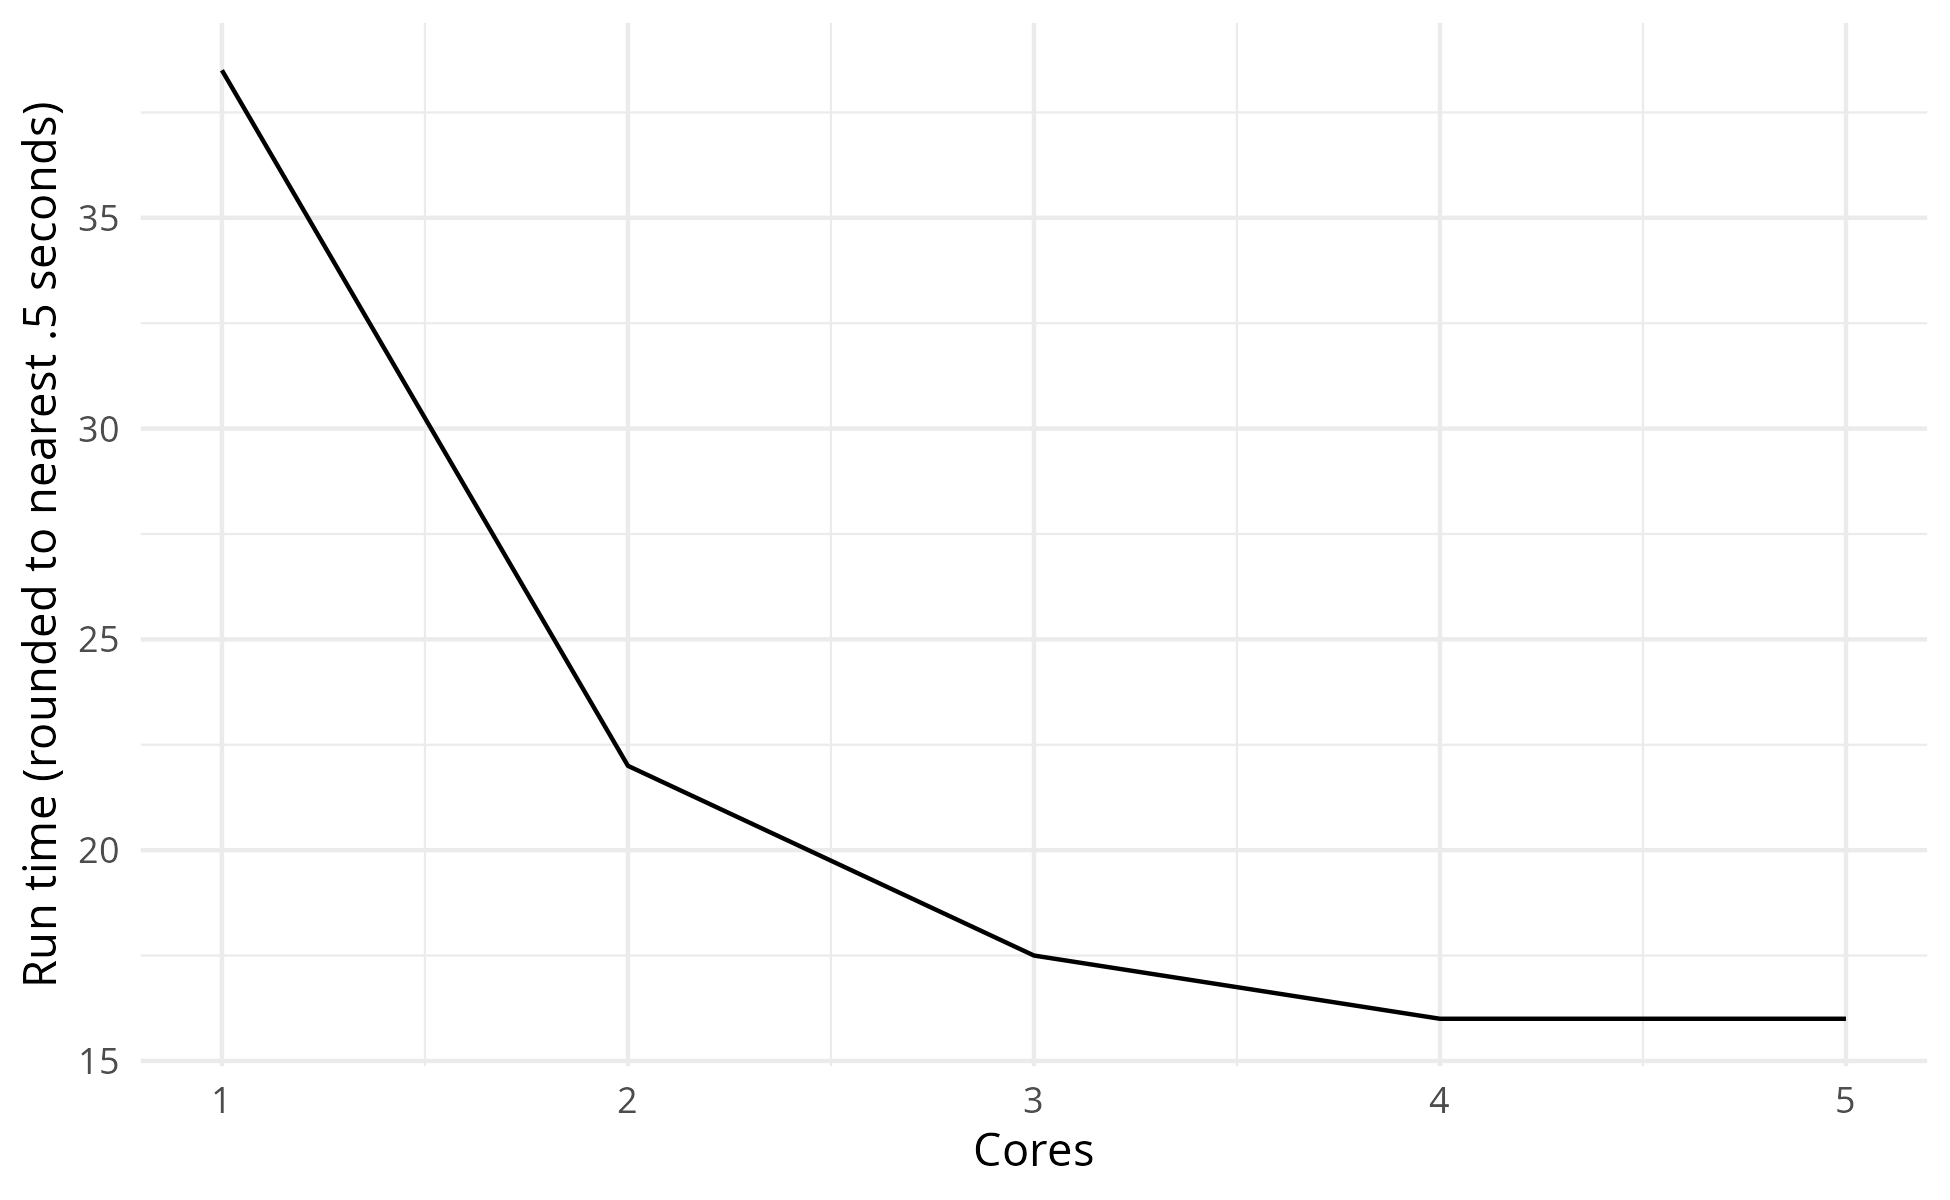
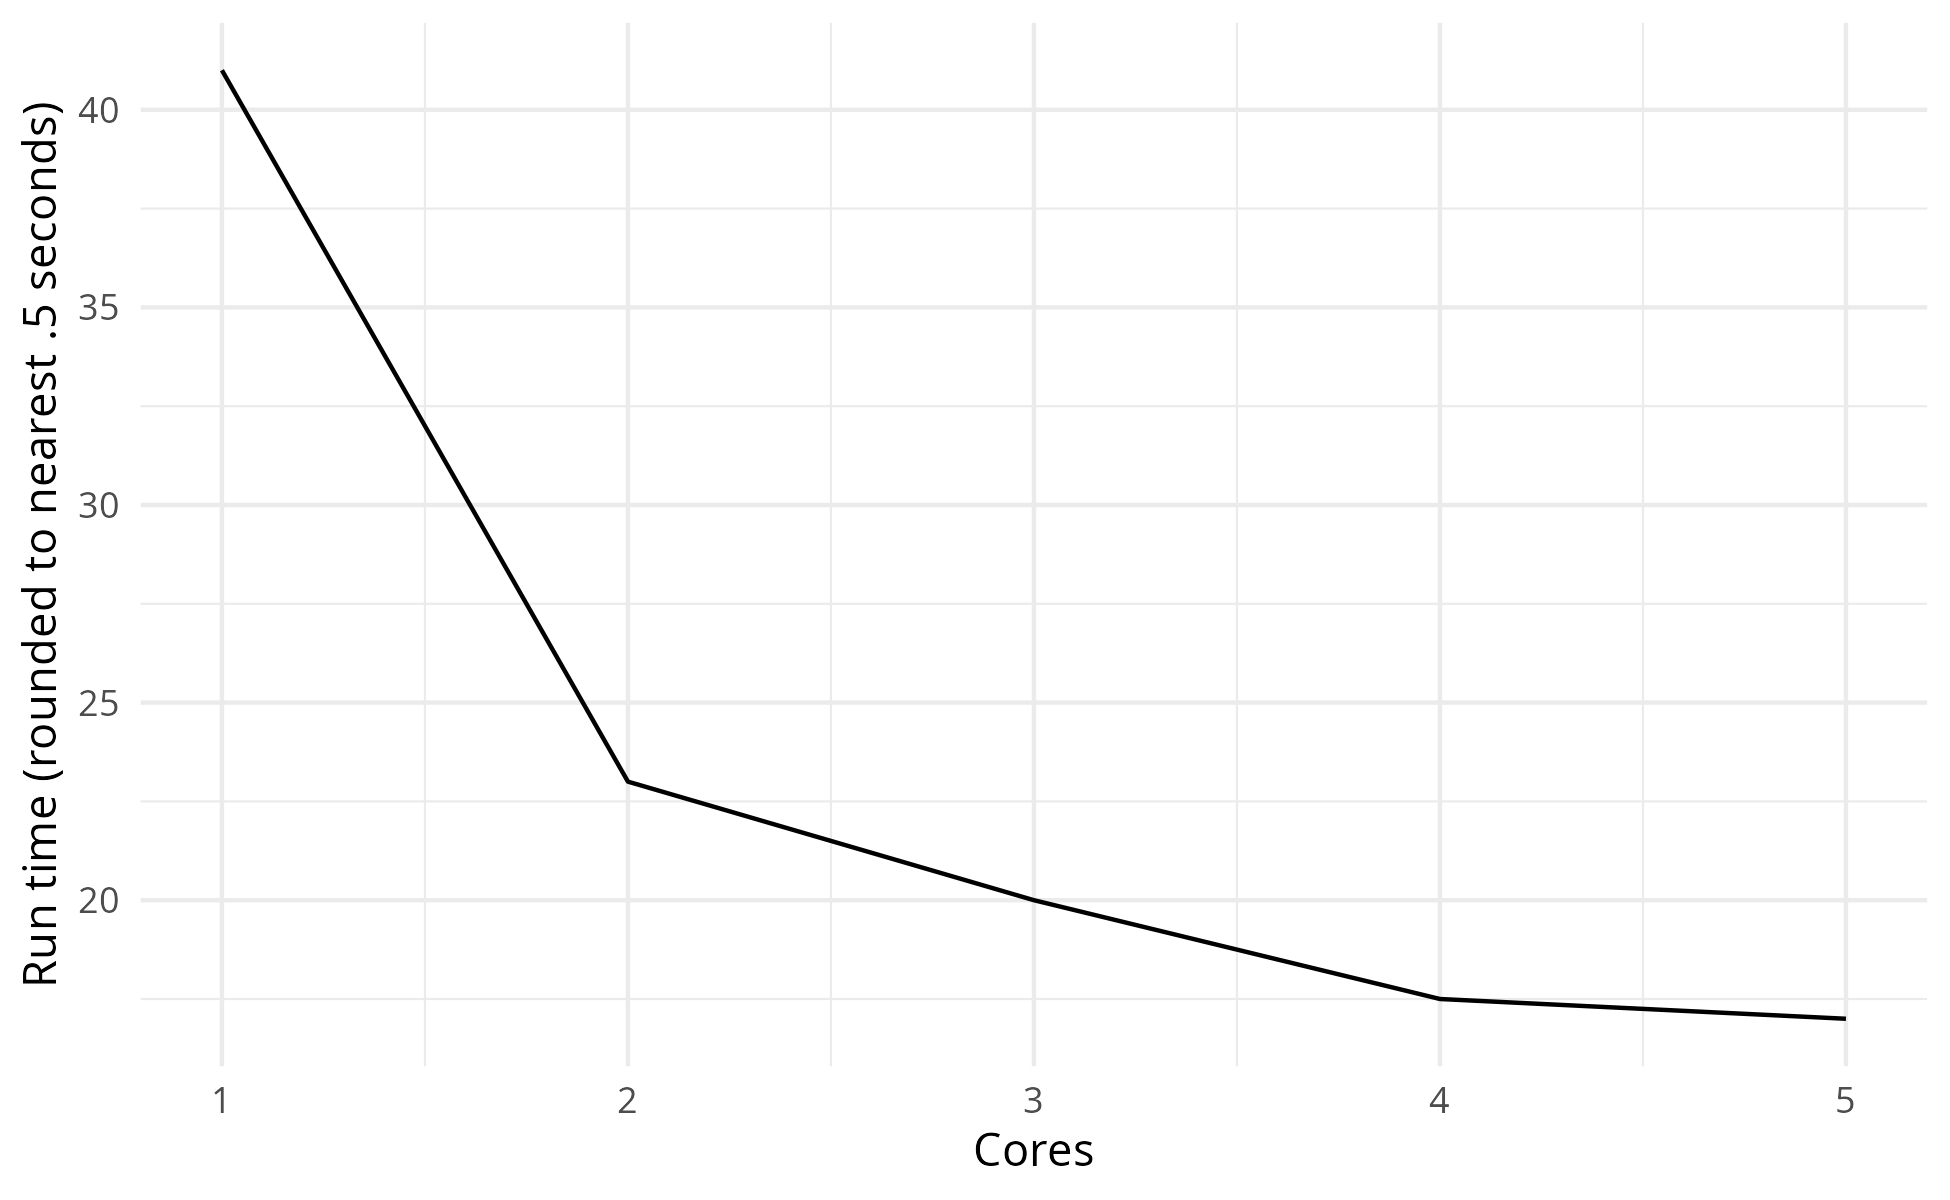
style(lint): linting all + re-running rmd

diff --git a/rmarkdown/analysis.md b/rmarkdown/analysis.md
@@ -1,7 +1,7 @@
 Analysis
 ================
 Amy Heather
-2025-03-12
+2025-03-17
 
 - [Set up](#set-up)
 - [Default run](#default-run)
@@ -105,8 +105,8 @@ run_results %>%
   group_by(key) %>%
   reframe(mean = mean(value, na.rm = TRUE),
           std_dev = stats::sd(value, na.rm = TRUE),
-          ci_lower = stats::t.test(value)[["conf.int"]][[1]],
-          ci_upper = stats::t.test(value)[["conf.int"]][[2]])
+          ci_lower = stats::t.test(value)[["conf.int"]][[1L]],
+          ci_upper = stats::t.test(value)[["conf.int"]][[2L]])
 ```
 
     ## # A tibble: 5 × 5
@@ -391,7 +391,7 @@ print(table_latex)
 ```
 
     ## % latex table generated in R 4.4.1 by xtable 1.8-4 package
-    ## % Wed Mar 12 16:11:33 2025
+    ## % Mon Mar 17 15:49:56 2025
     ## \begin{table}[ht]
     ## \centering
     ## \begin{tabular}{rrllll}
@@ -647,7 +647,7 @@ print(sensitivity_table_latex)
 ```
 
     ## % latex table generated in R 4.4.1 by xtable 1.8-4 package
-    ## % Wed Mar 12 16:12:14 2025
+    ## % Mon Mar 17 15:50:37 2025
     ## \begin{table}[ht]
     ## \centering
     ## \begin{tabular}{rrl}
@@ -694,18 +694,18 @@ tail(nan_experiment[["arrivals"]])
 ```
 
     ##             name start_time end_time activity_time resource replication
-    ## 16136 patient131   64.07388       NA            NA    nurse         100
-    ## 16137  patient63   32.62716       NA            NA    nurse         100
+    ## 16136  patient78   38.80769       NA            NA    nurse         100
+    ## 16137  patient74   37.63360       NA            NA    nurse         100
     ## 16138  patient76   38.71731       NA            NA    nurse         100
-    ## 16139  patient99   49.99761       NA            NA    nurse         100
-    ## 16140  patient69   35.83208       NA            NA    nurse         100
+    ## 16139 patient134   64.35663       NA            NA    nurse         100
+    ## 16140  patient73   36.35539       NA            NA    nurse         100
     ## 16141  patient77   38.74436       NA            NA    nurse         100
     ##       serve_start serve_length wait_time wait_time_unseen
-    ## 16136          NA           NA        NA         15.92612
-    ## 16137          NA           NA        NA         47.37284
+    ## 16136          NA           NA        NA         41.19231
+    ## 16137          NA           NA        NA         42.36640
     ## 16138          NA           NA        NA         41.28269
-    ## 16139          NA           NA        NA         30.00239
-    ## 16140          NA           NA        NA         44.16792
+    ## 16139          NA           NA        NA         15.64337
+    ## 16140          NA           NA        NA         43.64461
     ## 16141          NA           NA        NA         41.25564
 
 ``` r
@@ -764,4 +764,4 @@ seconds <- as.integer(runtime %% 60L)
 cat(sprintf("Notebook run time: %dm %ds", minutes, seconds))
 ```
 
-    ## Notebook run time: 2m 5s
+    ## Notebook run time: 2m 19s

diff --git a/rmarkdown/choosing_cores.md b/rmarkdown/choosing_cores.md
@@ -1,7 +1,7 @@
 Choosing cores
 ================
 Amy Heather
-2025-03-11
+2025-03-17
 
 - [Set up](#set-up)
 - [Run time with varying number of CPU
@@ -32,18 +32,17 @@ devtools::install()
 ```
 
     ## 
-    ## ── R CMD build ──────────────────────────────────────────────────────────────────────────────────
+    ## ── R CMD build ───────────────────────────────────────────────────────────────────────────────
     ##      checking for file ‘/home/amy/Documents/stars/rap_template_r_des/DESCRIPTION’ ...  ✔  checking for file ‘/home/amy/Documents/stars/rap_template_r_des/DESCRIPTION’
     ##   ─  preparing ‘simulation’:
     ##    checking DESCRIPTION meta-information ...  ✔  checking DESCRIPTION meta-information
     ##   ─  checking for LF line-endings in source and make files and shell scripts
     ##   ─  checking for empty or unneeded directories
-    ##    Removed empty directory ‘simulation/tests/testthat/_snaps’
     ##    Omitted ‘LazyData’ from DESCRIPTION
     ##   ─  building ‘simulation_0.1.0.tar.gz’
     ##      
     ## Running /opt/R/4.4.1/lib/R/bin/R CMD INSTALL \
-    ##   /tmp/RtmptoyQW1/simulation_0.1.0.tar.gz --install-tests 
+    ##   /tmp/RtmpJhKlRH/simulation_0.1.0.tar.gz --install-tests 
     ## * installing to library ‘/home/amy/.cache/R/renv/library/rap_template_r_des-cd7d6844/linux-ubuntu-noble/R-4.4/x86_64-pc-linux-gnu’
     ## * installing *source* package ‘simulation’ ...
     ## ** using staged installation
@@ -217,4 +216,4 @@ seconds <- as.integer(runtime %% 60L)
 cat(sprintf("Notebook run time: %dm %ds", minutes, seconds))
 ```
 
-    ## Notebook run time: 2m 13s
+    ## Notebook run time: 2m 22s

diff --git a/rmarkdown/generate_exp_results.md b/rmarkdown/generate_exp_results.md
@@ -93,7 +93,7 @@ head(results[["arrivals"]])
     ## 6     7.809445         0               NA
 
 ``` r
-write.csv(results[["arrivals"]] %>% arrange(replication, start_time),
+write.csv(arrange(results[["arrivals"]], replication, start_time),
           file.path(testdata_dir, "base_arrivals.csv"),
           row.names = FALSE)
 
@@ -248,7 +248,7 @@ param <- parameters(
 
 # Run the confidence_interval_method()
 rep_results <- confidence_interval_method(
-  replications = 15,
+  replications = 15L,
   desired_precision = 0.05,
   metric = "mean_serve_time_nurse"
 )
@@ -295,4 +295,4 @@ seconds <- as.integer(runtime %% 60L)
 cat(sprintf("Notebook run time: %dm %ds", minutes, seconds))
 ```
 
-    ## Notebook run time: 0m 4s
+    ## Notebook run time: 0m 2s

diff --git a/rmarkdown/choosing_replications.md b/rmarkdown/choosing_replications.md
@@ -384,7 +384,8 @@ plot_replication_ci(
   conf_ints = filter(alg$summary_table, metric == "mean_serve_time_nurse"),
   yaxis_title = "Mean time with nurse",
   file_path = path,
-  min_rep = alg$nreps[["mean_serve_time_nurse"]])
+  min_rep = alg$nreps[["mean_serve_time_nurse"]]
+)
 include_graphics(path)
 ```
 
@@ -416,4 +417,4 @@ seconds <- as.integer(runtime %% 60L)
 cat(sprintf("Notebook run time: %dm %ds", minutes, seconds))
 ```
 
-    ## Notebook run time: 3m 1s
+    ## Notebook run time: 1m 37s

diff --git a/rmarkdown/using_set_attributes.md b/rmarkdown/using_set_attributes.md
@@ -1,7 +1,7 @@
 Using `set_attributes()`
 ================
 Amy Heather
-2025-03-12
+2025-03-17
 
 - [Original model](#original-model)
 - [Model with record of allocation to a nurse

diff --git a/rmarkdown/choosing_warmup.md b/rmarkdown/choosing_warmup.md
@@ -1,7 +1,7 @@
 Choosing warm-up length
 ================
 Amy Heather
-2025-03-12
+2025-03-17
 
 - [Set-up](#set-up)
 - [Determining appropriate warm-up

diff --git a/rmarkdown/logs.md b/rmarkdown/logs.md
@@ -1,7 +1,7 @@
 Logs
 ================
 Amy Heather
-2025-03-11
+2025-03-17
 
 - [Set up](#set-up)
 - [Simulation run with logs printed to the
